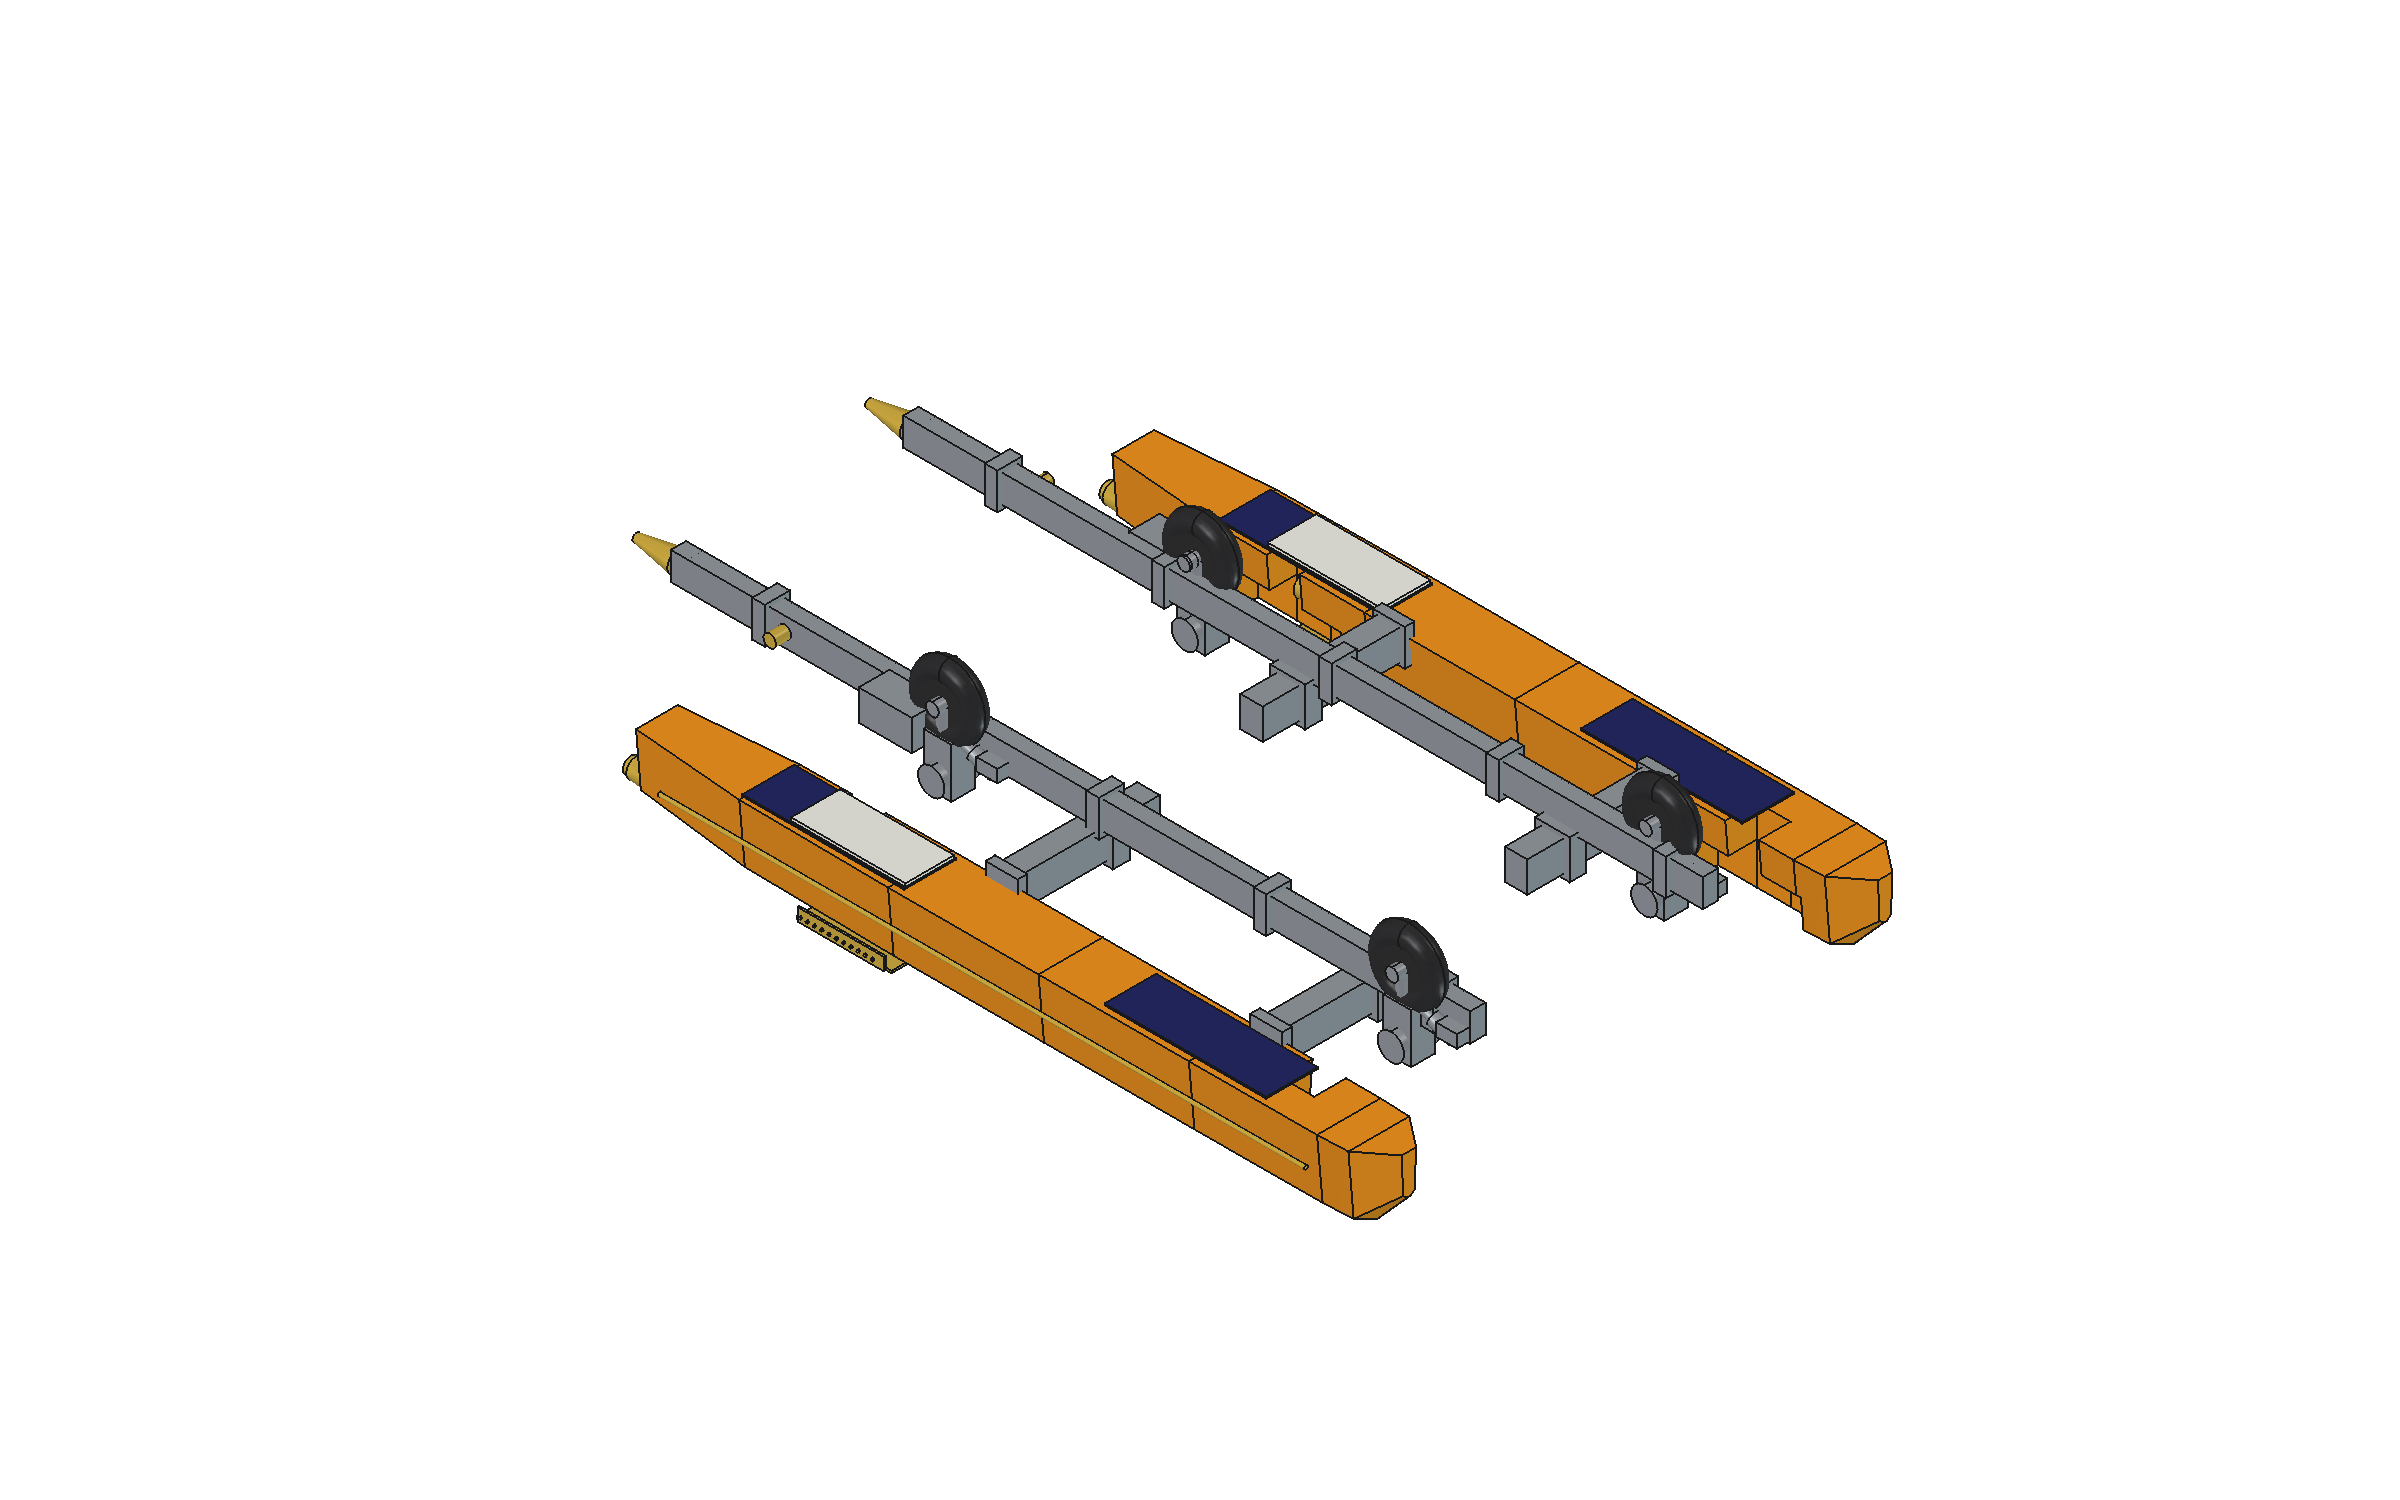
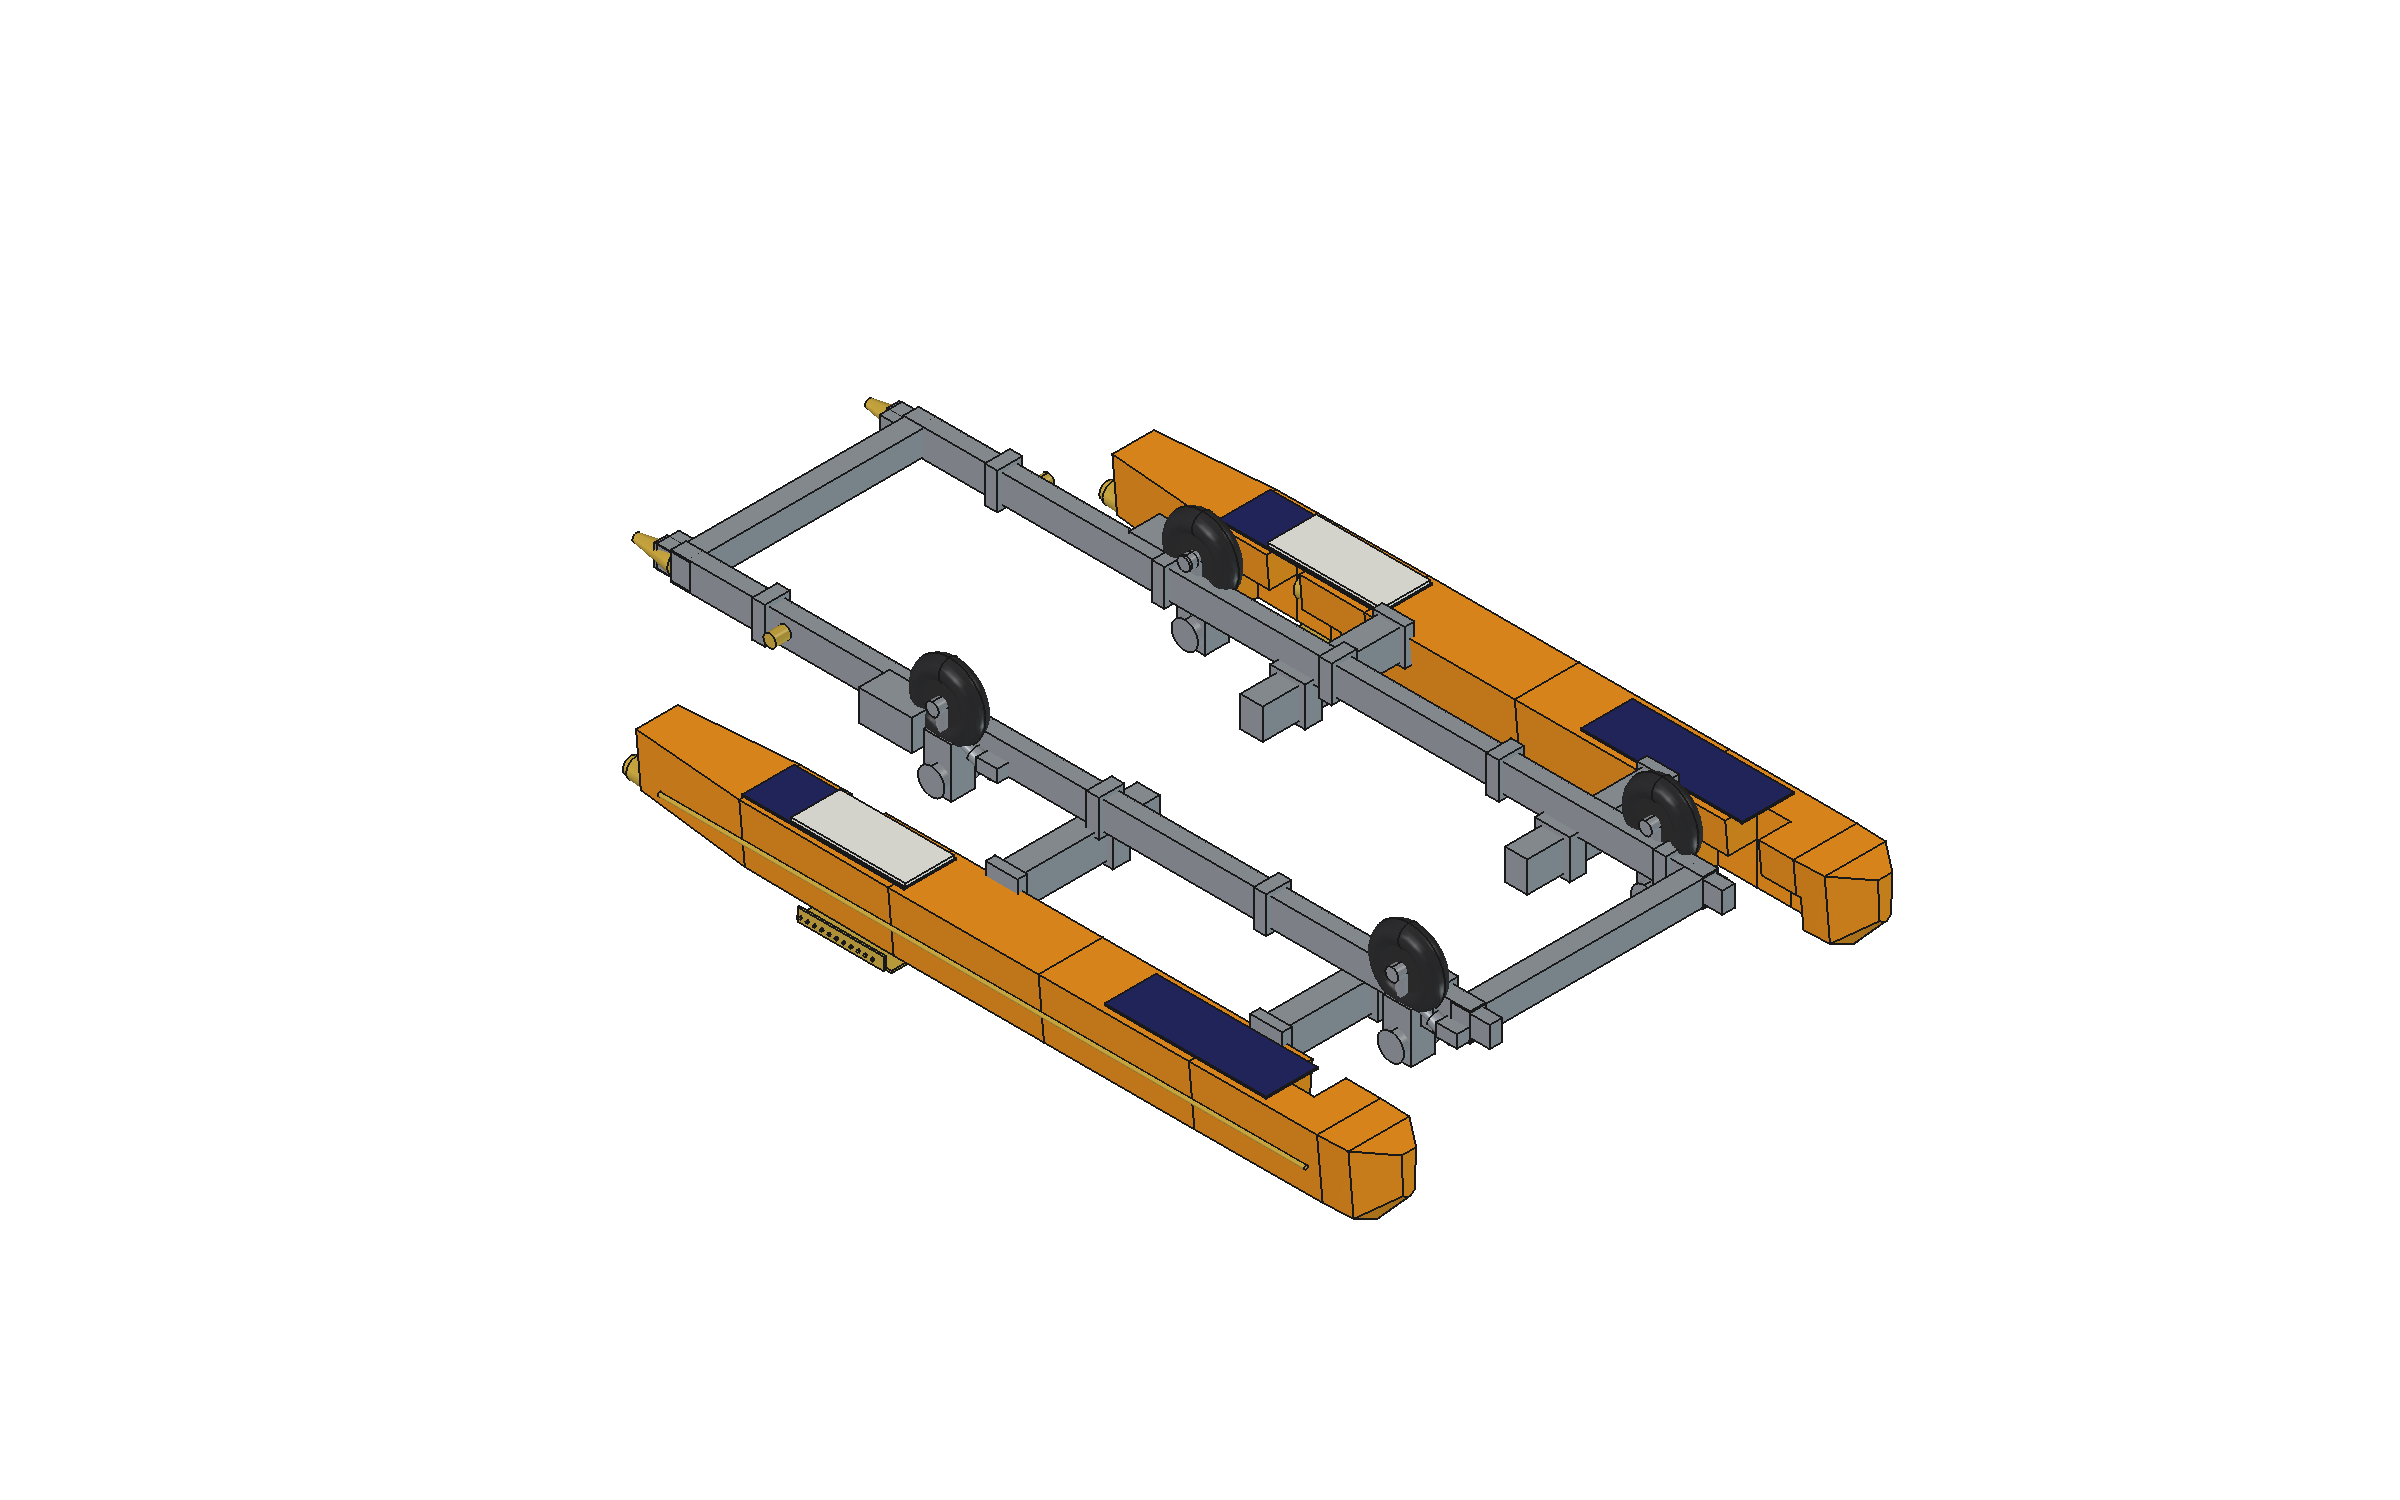
Restore the bight and the drawbar, and close the frame at both ends
Both were casualties of taking the swing wing out: they lived inside
the block that got replaced, so the hangar has been two unconnected
rails with nothing for a car to pull since 2a80895.  Visible the
moment the frame is rendered on its own from below - which is the
check that should have run before that commit was pushed.

Two girders on their own are two rails.  What makes them a frame is a
transverse tie at each end, so there are now two: the BIGHT aft at
x -120 and a FORWARD TIE at x 5480, both 140 x 180 box at girder level
z 600..800 - out of the water, and clear over the docked float whose
top is at 530.  Gussets into the girder webs at all four corners.

The DRAWBAR is a demountable A-frame off the bight: two legs down and
forward 1900 mm to a coupling head 445 mm over the tarmac, 50 mm ball,
two safety-chain eyes, jockey wheel.  On the road it pins into two
lugs on the bight face; at sea it comes off and stows flat on a float
deck so nothing stands in the water or rears over the transom.  26 kg.

Hangar 544 -> 581 kg.  Tongue load 128 kg with the pack aboard, 118
with it in the car - both inside the 60..130 band.

Changed region(s): [[0.5938, 0.5827, 0.7188, 0.7053], [0.2812, 0.276, 0.4062, 0.3987]]

diff --git a/freecad/build_boat.py b/freecad/build_boat.py
@@ -722,6 +722,52 @@ def build_hangar(phi, coupled=True, tow="sea"):
                               (sy * reach - 35) if sy > 0 else (sy * reach - 35),
                               P.BEAM_Z0 - 20)))
 
+    # ---- THE BIGHT AND THE FORWARD TIE. Two girders on their own are
+    # two rails; what makes them a frame is a transverse tie at each
+    # end. Both sit at girder level in the wing channel, so neither is
+    # in the water and neither fouls the docked float (top z 530).
+    bb, bh = P.HANGAR_BIGHT
+    by = P.GIRDER_Y + gb / 2
+    for tx, tag in ((P.GIRDER_X0, "bight"), (P.GIRDER_X1 - bb, "forward")):
+        parts.append(box(bb, 2 * by, bh,
+                         (tx, -by, gz - bh / 2)))
+        for s_ in (-1, 1):                      # gussets into the girders
+            parts.append(box(bb + 260, 90, bh - 30,
+                             (tx - 130, s_ * P.GIRDER_Y - 45, gz - bh / 2 + 15)))
+
+    # ---- THE DRAWBAR. Demountable: on the road it pins into two
+    # sockets on the bight and drops to the car ball 445 mm over the
+    # tarmac; at sea it comes off and stows flat on a float deck, so
+    # nothing stands in the water or rears over the transom.
+    if tow == "land":
+        nose_x = P.GIRDER_X0 - P.DRAWBAR_LEN
+        nose_z = P.GROUND_Z + P.COUPLING_H
+        for s_ in (-1, 1):                      # the A
+            parts.append(rod((P.GIRDER_X0 + bb / 2, s_ * (by - 90), gz),
+                             (nose_x + 300, 0, nose_z + 60), P.DRAWBAR_TUBE))
+        parts.append(rod((nose_x + 330, 0, nose_z + 60),
+                         (nose_x, 0, nose_z), P.DRAWBAR_TUBE))
+        # coupling head, ball, safety-chain eyes
+        parts.append(box(240, 160, 140, (nose_x - 40, -80, nose_z - 55)))
+        locks.append(Part.makeSphere(P.COUPLING_BALL / 2,
+                                     Vector(nose_x + 30, 0, nose_z - 60)))
+        for s_ in (-1, 1):
+            parts.append(Part.makeTorus(
+                30, 8, Vector(nose_x + 140, s_ * 95, nose_z - 20),
+                Vector(0, 1, 0)))
+        # jockey wheel, clamped to the drawbar
+        parts.append(Part.makeCylinder(
+            55, 420, Vector(nose_x + 470, 150, nose_z - 340), Vector(0, 0, 1)))
+        parts.append(Part.makeCylinder(
+            P.JOCKEY_D / 2, 80, Vector(nose_x + 470, 110, nose_z - 340),
+            Vector(0, 1, 0)))
+    else:
+        # the sockets the A-frame pins into - lugs on the bight's face
+        for s_ in (-1, 1):
+            parts.append(box(110, 160, 160,
+                             (P.GIRDER_X0 - 110, s_ * (by - 90) - 80,
+                              gz - 80)))
+
     if not coupled:
         off = Placement(Vector(P.HANGAR_STANDOFF, 0,
                                P.hangar_standoff_z()), Rotation())

diff --git a/freecad/params.py b/freecad/params.py
@@ -485,6 +485,8 @@ HANGAR_BIGHT_X = -120              # cross beam joining the float tails,
 HANGAR_BIGHT = (140, 180)
 DRAWBAR_LEN = 1900
 DRAWBAR_TUBE = 100
+DRAWBAR_KG = 26                    # A-frame, coupling head, chains,
+                                   # jockey wheel - demountable
 COUPLING_BALL = 50
 COUPLING_H = 445
 JOCKEY_D = 200
@@ -504,8 +506,11 @@ def hangar_mass():
     areas = laminate_areas()
     floats = (L.zone_mass("float_shell", areas.get("float_shell", 0.0)) +
               L.zone_mass("float_deck", areas.get("float_deck", 0.0)))
-    bight_m = 2 * (POD_DOCKED[0] + FLOAT_W / 2) / 1000
-    alu = bight_m * HANGAR_BIGHT[0] * HANGAR_BIGHT[1] * 0.15 * 2.7e-3
+    # TWO transverse ties, one at each end of the girders - that is
+    # what turns two rails into a frame - plus the demountable drawbar.
+    tie_m = 2 * 2 * (GIRDER_Y + GIRDER_SECTION[0] / 2) / 1000
+    alu = tie_m * HANGAR_BIGHT[0] * HANGAR_BIGHT[1] * 0.15 * 2.7e-3
+    alu += DRAWBAR_KG
     return (floats + MASS_WHEELS_HUBS + beam_mass() + MASS_FLIPGEAR +
             MASS_HYDRAULICS + girder_mass() + alu +
             4 * LOCK_MOTOR_KG + 20)

diff --git a/docs/floater.md b/docs/floater.md
@@ -113,6 +113,25 @@ stages, no nesting, no rotation, and its draft never changes.
 | Root | 13.2 kNm at the socket, 69 MPa, **SF 1.53** |
 | Mass | **9.4 kg the arm, 38 kg all four** |
 
+### The frame is a closed rectangle, and it has a tongue
+
+Two girders on their own are two rails. What makes them a frame is a
+**transverse tie at each end**:
+
+| | |
+|---|---|
+| **Bight** | aft, at x −120, across both girder ends |
+| **Forward tie** | at x 5 480, the other end of the same rectangle |
+| Both | 140 × 180 box at girder level (z 600 … 800) — out of the water, clear over the docked float whose top is 530 |
+| Gussets | into the girder webs at each corner |
+
+The **drawbar** is a demountable A-frame off the bight: two legs from
+the bight corners down and forward 1 900 mm to a coupling head **445 mm
+over the tarmac**, with a 50 mm ball, two safety-chain eyes and a
+jockey wheel. On the road it pins into two lugs on the bight's face;
+at sea it comes off and stows flat on a float deck, so nothing stands
+in the water or rears over the transom. **26 kg.**
+
 ### How 700 mm was arrived at
 
 Backwards from the weight, not forwards from a wish. A three-stage
@@ -177,7 +196,7 @@ righting moment — the thing that actually matters — went **up**.
 - **Detachable**: docks and undocks on the water, fork-and-lock, with
   the crew in the cockpit.
 
-## 7b. Mass — the 300 kg target, and where the 544 actually goes
+## 7b. Mass — the 300 kg target, and where the 581 actually goes
 
 Asked for a hangar under 300 kg. Every line below is **computed** —
 from measured areas times a laminate schedule, or from a section times
@@ -191,15 +210,15 @@ a length — not estimated:
 | Drive + seals | 80 | 2 × 3 kW, 100:1, one face seal a side |
 | Wheels + hubs | 60 | 4 × 155/70 R12C on steel |
 | **Extender sliders** | **38** | **was 209 as a telescope** |
-| Bight | 25 | |
+| Bight, forward tie, drawbar | 63 | two transverse ties + the demountable A-frame |
 | Locks and sundry | 30 | |
-| **Total** | **544** | was 1 003 |
+| **Total** | **581** | was 1 003 |
 
 **300 kg is below the floor, and it is worth being precise about why.**
 A braked commercial boat trailer for 3 t weighs 400–600 kg empty, and
 it has no floats, no extenders, no retracting wheels and no dinghy
-duty. Of the 544 here, **129 kg is the two float hulls** — those are
-boat, not trailer. The metalwork is 244 kg and the drive 80.
+duty. Of the 581 here, **129 kg is the two float hulls** — those are
+boat, not trailer. The metalwork is 281 kg and the drive 80.
 
 The remaining levers, in order of size: the girders (93 kg) are sized
 by road deflection over a 5.7 m span and would come down if the
